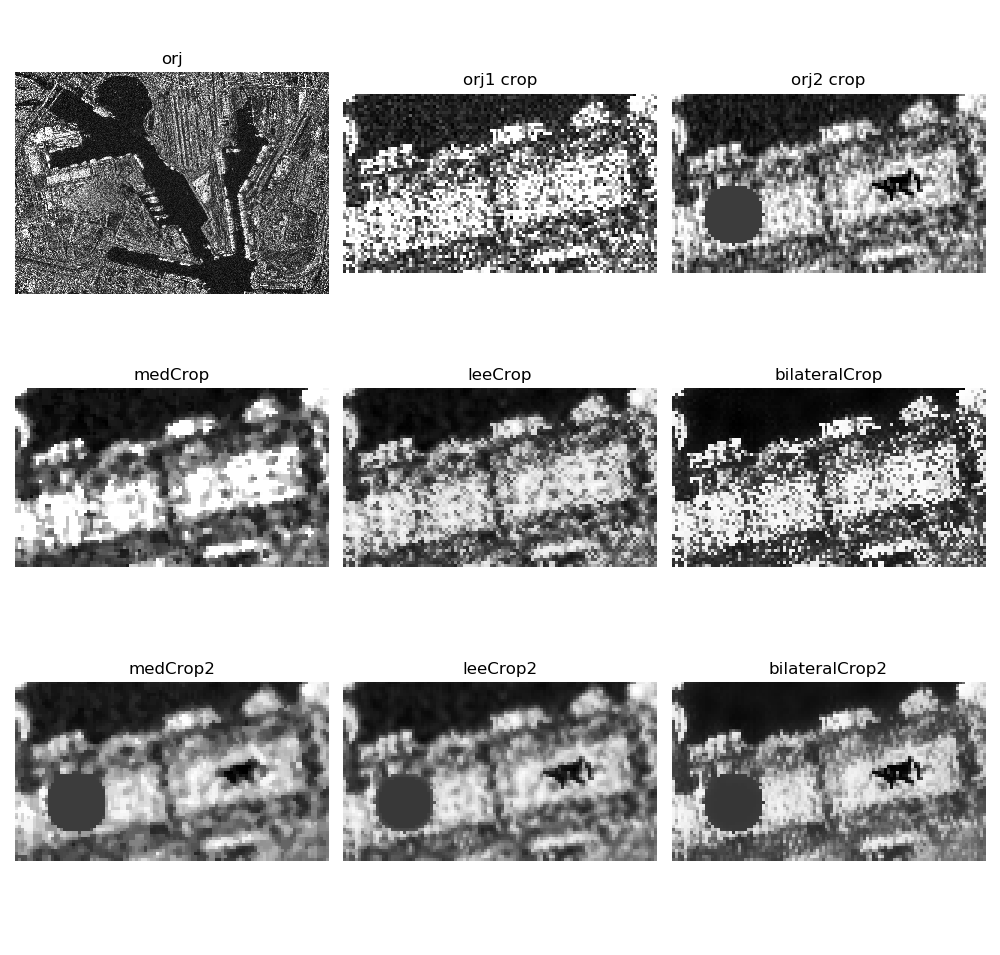
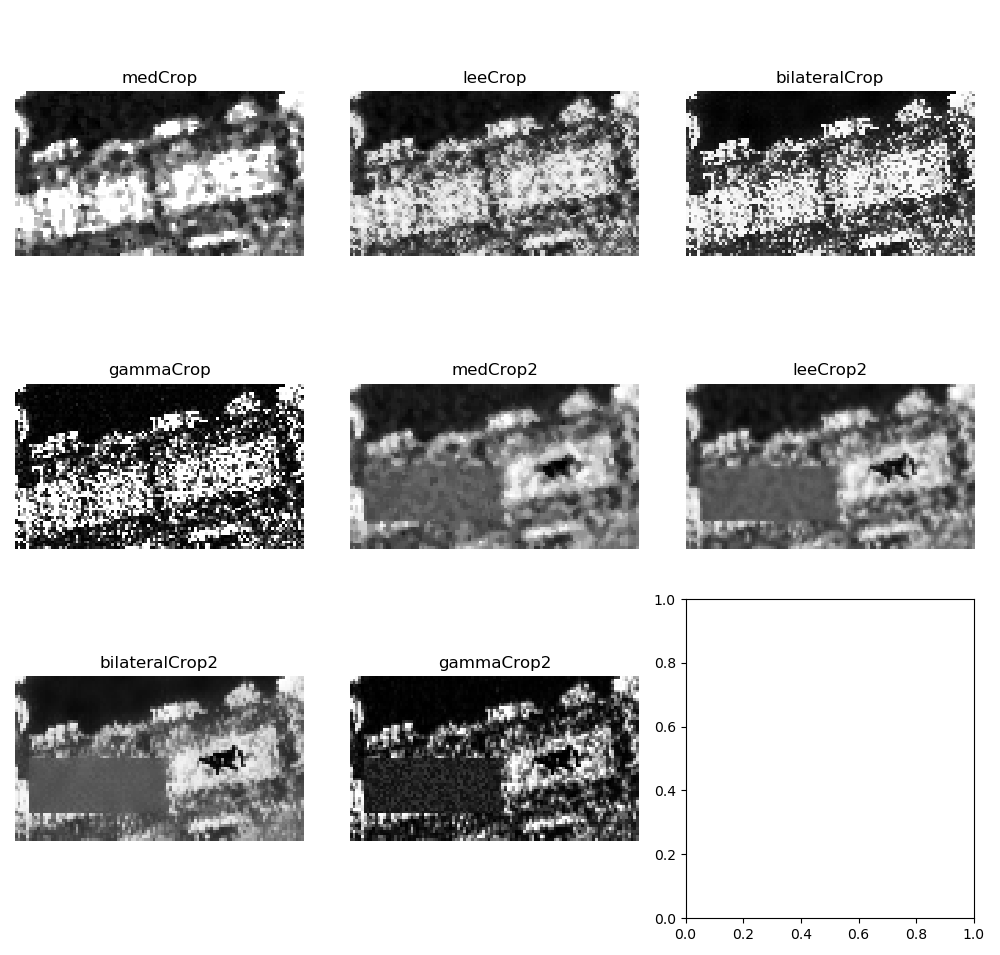
gamma is added to plot func

diff --git a/changeDetectionTesting.py b/changeDetectionTesting.py
@@ -3,7 +3,7 @@
 import cv2
 import numpy as np
 
-from sarFilters import applyPipeline, median_filter, lee_filter, bilateral_filter
+from sarFilters import applyPipeline, median_filter, lee_filter, bilateral_filter, gamma_filter
 from morphologicalFunctions import applyClosing, applyOpening, applyDilate, applyCropping
 from plotFunctions import plot_images
 
@@ -30,8 +30,8 @@ else:
 
 applyPipeline(sar_image, "median")
 applyPipeline(sar_image, "lee")
-applyPipeline(sar_image, "bilateral", True)
-applyPipeline(sar_image, "gamma", True)
+applyPipeline(sar_image, "bilateral")
+applyPipeline(sar_image, "gamma")
 #applyPipeline(sar_image, "kuan")
 #applyPipeline(sar_image, "frost")
 #applyPipeline(sar_image, "sigma")
@@ -41,13 +41,15 @@ window_size = 3
 median = median_filter(image, window_size)
 lee = lee_filter(image, window_size)
 bilateral = bilateral_filter(image, window_size)
+gamma = gamma_filter(image, window_size, gamma = 2.0)
 
 medCrop = applyCropping(median, x1, x2, y1, y2)
 leeCrop = applyCropping(lee, x1, x2, y1, y2)
 bilateralCrop = applyCropping(bilateral, x1, x2, y1, y2)
+gammaCrop = applyCropping(gamma, x1, x2, y1, y2)
 
-images = [image1,   median,         lee,        bilateral,      img1Cropped, img2Cropped, medCrop, leeCrop, bilateralCrop]
-titles = ['orj','median_filter','lee_filter','bilateral_filter','orj1 crop','orj2 crop', 'medCrop','leeCrop','bilateralCrop' ]    
+images = [image1,   median,         lee,        bilateral,      gamma,  medCrop, leeCrop, bilateralCrop, gammaCrop]
+titles = ['orj','median_filter','lee_filter','bilateral_filter','gamma', 'medCrop','leeCrop','bilateralCrop','gammaCrop']    
 plot_images(images, titles, len(images))
 
 #image = cv2.cvtColor(sar_image, cv2.COLOR_GRAY2BGR)
@@ -58,13 +60,17 @@ plot_images(images, titles, len(images))
 median2 = median_filter(image2, window_size)
 lee2 = lee_filter(image2, window_size)
 bilateral2 = bilateral_filter(image2, window_size)
+gamma2 = gamma_filter(image2, window_size, gamma = 2.0)
 
 medCrop2 = applyCropping(median2, x1, x2, y1, y2)
 leeCrop2 = applyCropping(lee2, x1, x2, y1, y2)
 bilateralCrop2 = applyCropping(bilateral2, x1, x2, y1, y2)
+gammaCrop2 = applyCropping(gamma2, x1, x2, y1, y2)
 
-images = [image1,img1Cropped, img2Cropped, medCrop, leeCrop,  bilateralCrop,   medCrop2, leeCrop2,   bilateralCrop2]
-titles = ['orj','orj1 crop','orj2 crop', 'medCrop','leeCrop','bilateralCrop', 'medCrop2','leeCrop2', 'bilateralCrop2']    
+#images = [img1Cropped, img2Cropped, medCrop, leeCrop,  bilateralCrop,   medCrop2, leeCrop2,   bilateralCrop2, gammaCrop2]
+#titles = ['orj1 crop','orj2 crop', 'medCrop','leeCrop','bilateralCrop', 'medCrop2','leeCrop2', 'bilateralCrop2', 'gammaCrop2']    
+images = [medCrop, leeCrop,  bilateralCrop, gammaCrop,  medCrop2, leeCrop2,   bilateralCrop2, gammaCrop2]
+titles = ['medCrop','leeCrop','bilateralCrop','gammaCrop', 'medCrop2','leeCrop2', 'bilateralCrop2', 'gammaCrop2']  
 plot_images(images, titles, len(images))
 
 #%% CHANGE DETECTION TESTING - DIFFERENCING
@@ -301,14 +307,35 @@ def despeckle_sar(image, wavelet='haar', level=1, thresholding='soft', threshold
 
 despeckled_image = despeckle_sar(image)
 
-images = [image,   image2,     despeckled_image,     filtered_image, ]
+images = [image,   image2,     despeckled_image,     filtered_image]
 titles = ['image1','image2','despeckled_image', 'k-means with 20']
 
 plot_images(images, titles, len(images))
 
+#%%
+"""
+One common application of cross-correlation is template matching, where you 
+have a small template image and you want to find it within a larger search image.
+"""
 
+# Perform cross-correlation
+result = cv2.matchTemplate(image, image2, cv2.TM_CCOEFF_NORMED)
 
+# Find the location of the maximum correlation
+min_val, max_val, min_loc, max_loc = cv2.minMaxLoc(result)
 
+# Get the width and height of the template image
+w, h = image2.shape[::-1]
+
+# Draw a rectangle around the matched region
+top_left = max_loc
+bottom_right = (top_left[0] + w, top_left[1] + h)
+cv2.rectangle(image, top_left, bottom_right, 255, 2)
+
+images = [image,   image2 ]
+titles = ['image1','image2']
+
+plot_images(images, titles, len(images))
 
 
 

diff --git a/sarFilters.py b/sarFilters.py
@@ -203,7 +203,7 @@ def applyPipeline(sar_image, filterType, draw = False):
         filtered = filter_function(sar_image, window_size=5)
         filteredThresh = filter_function(thresh_img, window_size=5)
     
-    threshClosing = cv2.morphologyEx(filteredThresh.astype(np.float32), cv2.MORPH_CLOSE, kernel)
+    threshClosing = cv2.morphologyEx(filtered.astype(np.float32), cv2.MORPH_CLOSE, kernel)
  
     eroded1 = cv2.erode(threshClosing, kernel, iterations = 1)
     eroded2 = cv2.erode(threshClosing, kernel, iterations = 2)
